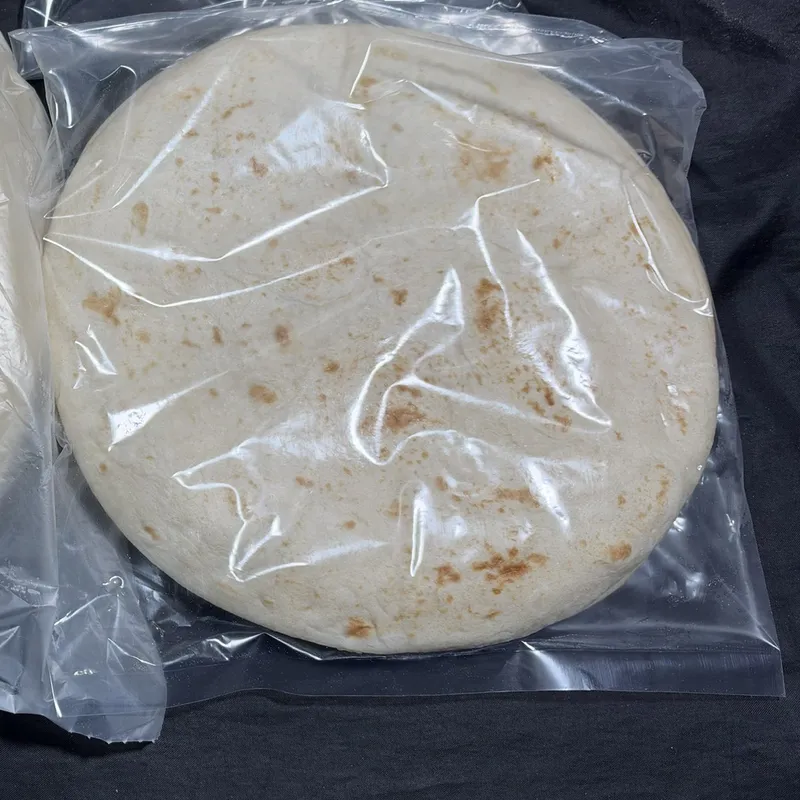
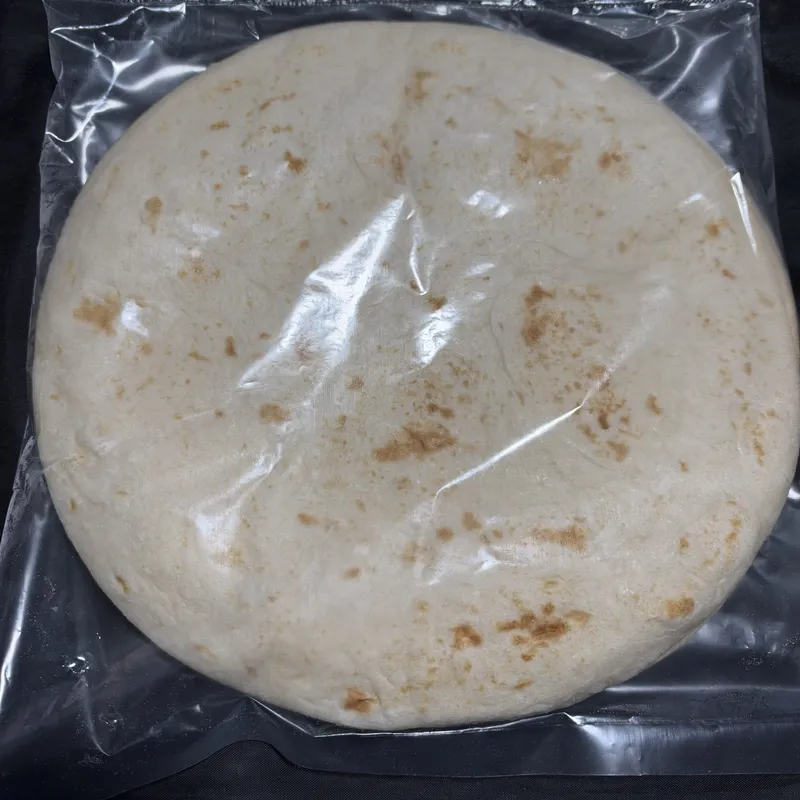
Nueva foto de tortillas para burrito
Claude-Session: https://claude.ai/code/session_01PTHL86jYLQyNci14ggAKkn

diff --git a/sw.js b/sw.js
@@ -1,4 +1,4 @@
-const C='arba-v30';
+const C='arba-v31';
 self.addEventListener('install',e=>{self.skipWaiting();e.waitUntil(caches.open(C).then(c=>c.addAll(['./','./index.html','./manifest.json','./icon-192.png','./icon-512.png'])).catch(()=>{}))});
 self.addEventListener('activate',e=>e.waitUntil(caches.keys().then(ks=>Promise.all(ks.filter(k=>k!==C).map(k=>caches.delete(k)))).then(()=>clients.claim())));
 self.addEventListener('fetch',e=>{const q=e.request;if(q.method!=='GET')return;const u=new URL(q.url);if(/\.(mp4|webm)$/i.test(u.pathname))return;
